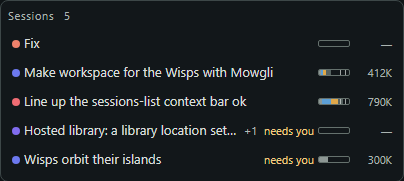
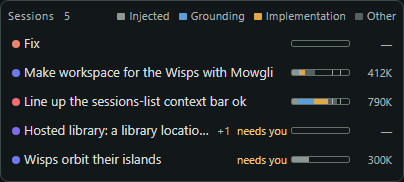
green(sessions-legend): a colour legend in the header; bars 120px wide
The legend's swatches and the bar's segments read the same --group-* tokens.
The panel grows by the bar's extra 55px so a 40-character name still shows whole.

diff --git a/packages/forest/src/view/styles.css b/packages/forest/src/view/styles.css
@@ -1,6 +1,10 @@
-.sessions-list { position:absolute; left:16px; bottom:16px; z-index:45; width:min(470px, calc(100% - 32px)); max-height:38%; overflow:auto; box-sizing:border-box; padding:10px 12px; color:#d9dedb; background:rgba(18,24,27,.93); border:1px solid #3d4748; border-radius:8px; font:13px/1.45 system-ui,sans-serif; box-shadow:0 5px 20px #0004; }
-.sessions-list header { font-size:11px; letter-spacing:.06em; color:#abb4b1; margin-bottom:5px; }
-.sessions-list header span { margin-left:6px; }
+.sessions-list { position:absolute; left:16px; bottom:16px; z-index:45; width:min(525px, calc(100% - 32px)); max-height:38%; overflow:auto; box-sizing:border-box; padding:10px 12px; color:#d9dedb; background:rgba(18,24,27,.93); border:1px solid #3d4748; border-radius:8px; font:13px/1.45 system-ui,sans-serif; box-shadow:0 5px 20px #0004; }
+.sessions-list { --group-injected:#8d9794; --group-grounding:#5c9fd6; --group-implementation:#e0a84a; --group-other:#566260; }
+.sessions-list header { display:flex; flex-wrap:wrap; align-items:baseline; justify-content:space-between; gap:2px 10px; font-size:11px; letter-spacing:.06em; color:#abb4b1; margin-bottom:5px; }
+.sessions-count { margin-left:6px; }
+.session-legend { display:flex; flex-wrap:wrap; gap:2px 9px; letter-spacing:.02em; }
+.session-legend > span { display:inline-flex; align-items:center; gap:4px; white-space:nowrap; }
+.session-swatch { width:8px; height:7px; border-radius:1px; background:var(--swatch); }
 .sessions-list ul { list-style:none; margin:0; padding:0; }
 .sessions-list p { margin:4px 0; font-size:12px; color:#abb4b1; }
 .session-row { display:flex; align-items:center; gap:8px; min-height:29px; border-radius:4px; padding:0 4px; }
@@ -15,13 +19,13 @@
 .sessions-list button { font:inherit; cursor:pointer; background:none; color:inherit; border:0; border-radius:3px; padding:1px 3px; white-space:nowrap; }
 .session-children-toggle { font-size:11px !important; color:#b3bdb9 !important; }
 .session-needs-you { font-size:11px; color:#f2cb83; white-space:nowrap; }
-.session-context-slot { position:relative; display:flex; overflow:hidden; width:65px; height:7px; flex-shrink:0; border:1px solid #65716d; border-radius:2px; box-sizing:border-box; margin-left:8px; }
+.session-context-slot { position:relative; display:flex; overflow:hidden; width:120px; height:7px; flex-shrink:0; border:1px solid #65716d; border-radius:2px; box-sizing:border-box; margin-left:8px; }
 .session-segment { height:100%; flex-shrink:0; }
-.session-segment[data-group="injected"] { background:#8d9794; }
-.session-segment[data-group="grounding"] { background:#5c9fd6; }
-.session-segment[data-group="implementation"] { background:#e0a84a; }
-.session-segment[data-group="other"] { background:#566260; }
-.session-segment[data-group="raw"] { background:#8d9794; }
+.sessions-list [data-group="injected"],.sessions-list [data-group="raw"] { --swatch:var(--group-injected); }
+.sessions-list [data-group="grounding"] { --swatch:var(--group-grounding); }
+.sessions-list [data-group="implementation"] { --swatch:var(--group-implementation); }
+.sessions-list [data-group="other"] { --swatch:var(--group-other); }
+.session-segment { background:var(--swatch); }
 .session-tick { position:absolute; top:-1px; bottom:-1px; width:1px; background:#d9dedb; opacity:.7; }
 .session-total { font-variant-numeric:tabular-nums; font-size:11px; width:38px; text-align:right; color:#abb4b1; flex-shrink:0; }
-@media(max-width:600px) { .sessions-list { left:8px; bottom:8px; width:calc(100% - 16px); padding:7px; } .session-row { gap:4px; } .session-context-slot { width:32px; margin-left:0; } }
+@media(max-width:600px) { .sessions-list { left:8px; bottom:8px; width:calc(100% - 16px); padding:7px; } .session-row { gap:4px; } .session-context-slot { width:59px; margin-left:0; } }

diff --git a/packages/forest/src/view/sessions-list.tsx b/packages/forest/src/view/sessions-list.tsx
@@ -193,7 +193,12 @@ export function SessionsList({ rows, loading = false, error, highlighted, select
     return next;
   };
   return <aside className="sessions-list" aria-label="Running sessions">
-    <header>Sessions <span>{rows.length}</span></header>
+    <header>
+      <span>Sessions <span className="sessions-count">{rows.length}</span></span>
+      <span className="session-legend" aria-label="Bar colours">
+        {GROUPS.map(([group, name]) => <span key={group} data-group={group}><span className="session-swatch" aria-hidden="true" />{name}</span>)}
+      </span>
+    </header>
     {loading && !error && <p role="status">Reading sessions…</p>}
     {error && <p role="status">{error}</p>}
     {!loading && rows.length === 0 && <p>No running sessions</p>}

diff --git a/packages/forest/evidence/sessions-list-alignment/README.md b/packages/forest/evidence/sessions-list-alignment/README.md
@@ -18,3 +18,8 @@ the default width.
 - Filled bar (contract 7.6): 1,000,000 tokens span the bar on every row. Claude Code rows split into Injected (grey),
   Grounding (blue), Implementation (amber) and Other (muted) by the reading's composition (agent link 9.8), with
   marks at 700K and 850K; the Codex row is one raw segment with no marks. Hover gives the numbers.
+- Legend and 120px bar (increment `increment_950cdb5c388a`, owner's answer to `question_6bdc148e3443`): the header
+  carries Injected / Grounding / Implementation / Other with swatches that read the same colour tokens as the
+  segments (`--group-*` on `.sessions-list`), so the two cannot drift. The bar is 120px (59px under 600px). To keep a
+  40-character name whole, the panel grew by the same 55px (`min(525px, 100% - 32px)`) instead of the label giving it
+  up: at 470px the label measured 238px against a 249px name. Red `e571fee`: no legend entries.
